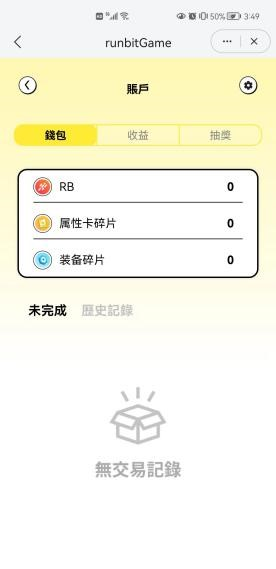
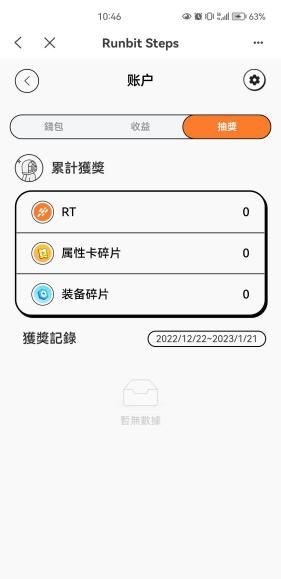
update

diff --git a/docs/source/game_introduction.rst b/docs/source/game_introduction.rst
@@ -2,7 +2,7 @@ RunBit游戏操作流程介绍
 ======================
 进入游戏
 ----------
-打开 :guilabel:`imtoken` 或者 :guilabel:`TokenPocket` 等钱包，选择Matic（Polygon）链，在DAPP浏览器栏输入游戏地址https://game.runbit.org，点击打开。
+打开 :guilabel:`imtoken` 或者 :guilabel:`TokenPocket` 等钱包，选择Matic（Polygon）链，在DAPP浏览器栏输入游戏地址https://game.runbit.io，点击打开。
 
 .. _fig_0101:
 .. figure:: img/1.jpg
@@ -21,7 +21,7 @@ RunBit游戏操作流程介绍
 绑定计步APP
 ------------
 首先通过手机浏览器下载安装计步APP，下载地址
-https://game.runbit.org/appdownload/runbit.apk
+https://game.runbit.io/appdownload/runbit.apk
 安装完成后打开APP，在右上角输入框中输入自己的钱包地址，进行绑定。
 
 
@@ -33,7 +33,7 @@ https://game.runbit.org/appdownload/runbit.apk
 
 购买装备和属性卡
 -----------------
-点击商店，选择要购买的装备或者属性卡，确认购买。首次购买会弹出授权弹窗，点击 :guilabel:`授权`，授权会消耗少量MATIC作为GAS费。再次点击进行购买，支付相应的RB购买。要保证钱包里有足够的RB和MATIC。购买的装备和属性卡可在背包中查看。
+点击商店，选择要购买的装备或者属性卡，确认购买。首次购买会弹出授权弹窗，点击 :guilabel:`授权`，授权会消耗少量MATIC作为GAS费。再次点击进行购买，支付相应的RT购买。要保证钱包里有足够的RT和MATIC。购买的装备和属性卡可在背包中查看。
     
 
 .. figure:: img/4-1.jpg
@@ -46,31 +46,28 @@ https://game.runbit.org/appdownload/runbit.apk
 
 给装备添加属性卡
 -----------------
-打开背包，选择要添加属性卡的装备，比如鞋子，上衣或裤子。打开选择的装备，点击 :guilabel:`+`，选择要添加的属性卡，确认添加。
+打开背包，选择要装备的部件，比如鞋子，上衣，裤子，然后进行装备。在首页选择已经添加的装备，点击 :guilabel:`+`，选择要添加的属性卡，确认添加。会有进行授权的过程，消耗一点点GAS。
    
 
 .. figure:: img/5-1.jpg 
 .. figure:: img/5-2.jpg 
 .. figure:: img/5-3.jpg
+.. figure:: img/5-4.jpg
 
 选择赛道，添加装备
 ------------------
 1. 点击赛道，选择好赛道后进行确定。
 
 .. 注意::
-    选择好赛道后需要添加对应的装备，否则会减少收益。
+    注意：跑道的选择要和装备对应，不然会减少收益，比如石子路必须穿鞋子。
 
 .. figure:: img/6-1.jpg 
 .. figure:: img/6-2.jpg 
 
 
+2. 卸下装备
 
-
-
-
-1. 添加和卸下装备
-
-+ 添加装备：选择好赛道后，要对应赛道添加装备，比如石子路必须穿鞋子。点击人物上的对应 :guilabel:`+`，上中下分别为上衣、裤子、鞋子。点击后选择对应的装备进行添加。添加完成后如图所示。
++ 点加圆圈即可添加装备
 + 卸下装备：点击要卸下装备的部位，点击打开后，点击 :guilabel:`卸下`，授权进行卸下装备。卸下后将不再获得对应的收益。
  
 .. figure:: img/6-3.jpg 
@@ -89,16 +86,11 @@ https://game.runbit.org/appdownload/runbit.apk
 .. figure:: img/7-2.jpg 
 
 
-
-
-
 合成更高级装备
 --------------------
 打开背包，点击“去合成”，添加2个等级和类型相同的装备，点击“合成”，支付一定的合成费用，合成高一级别的装备。合成后可在背包中查看。
 
 .. figure:: img/8-1.jpg 
-.. figure:: img/8-2.jpg 
-.. figure:: img/8-3.jpg 
 
 查看和提取收益
 ------------------
@@ -109,4 +101,3 @@ https://game.runbit.org/appdownload/runbit.apk
 .. figure:: img/9-1.jpg 
 .. figure:: img/9-2.jpg 
 .. figure:: img/9-3.jpg 
-.. figure:: img/9-4.jpg 
